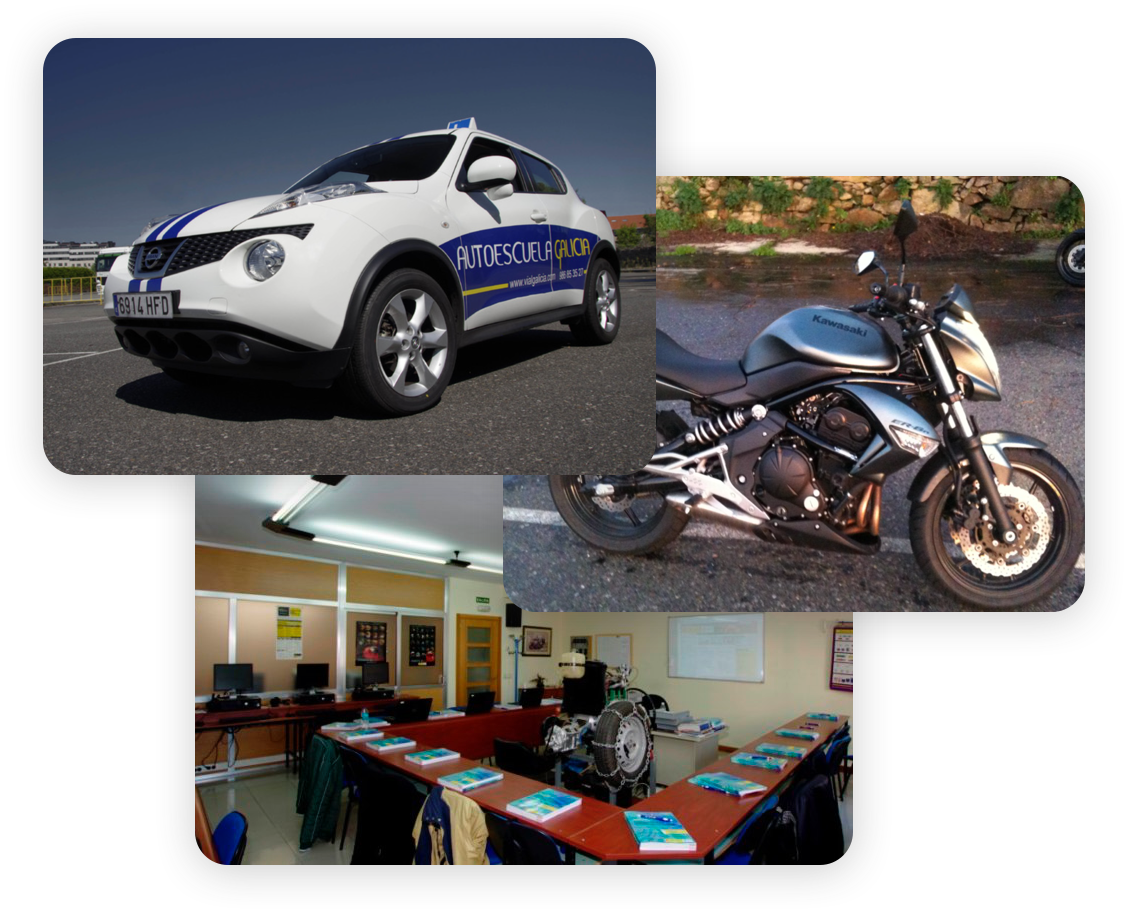
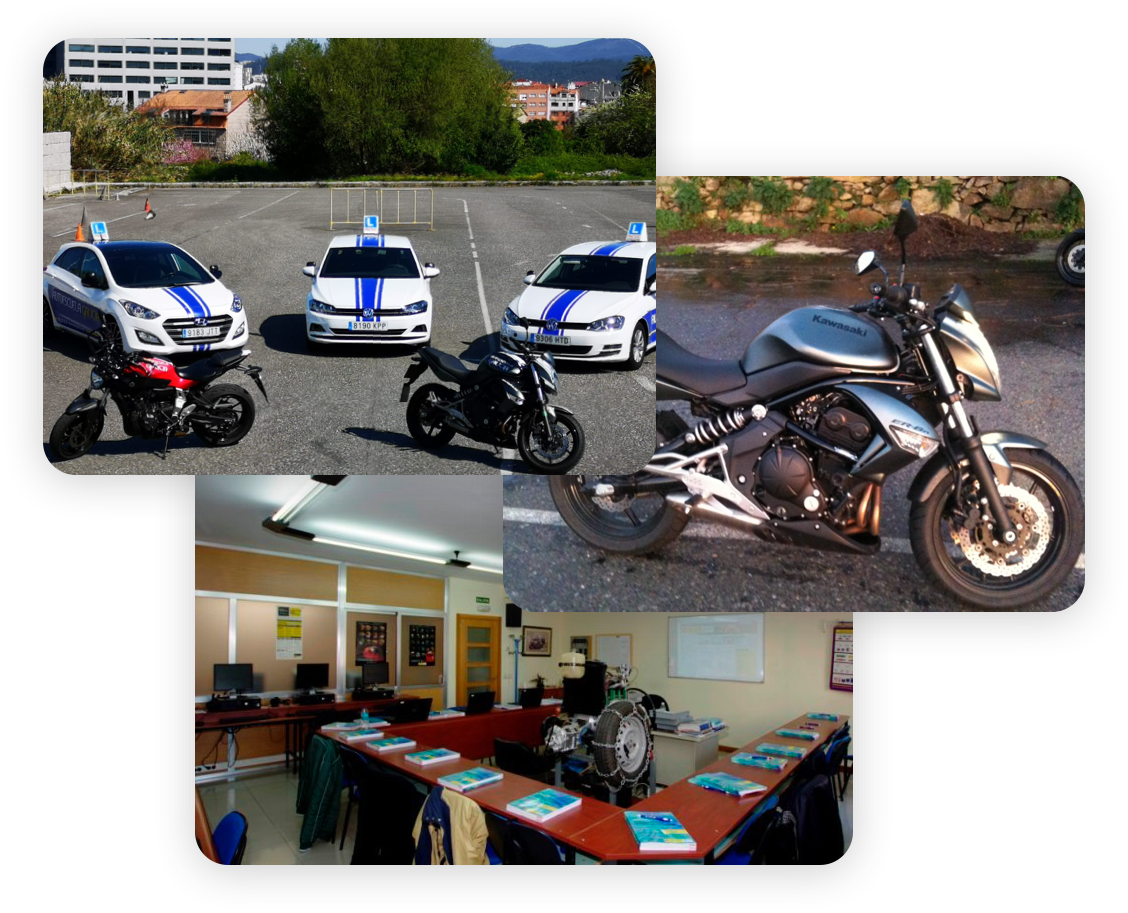
Upload updated "cars and motorcycles" picture

Changed region(s): [[0.031, 0.0307, 0.5895, 0.5214]]

diff --git a/index.html b/index.html
@@ -62,7 +62,7 @@
 
 				<a href="/servicios">
 					<div class="pages-grid-cell">
-						<img class="pages-grid-cell-image" src="assets/images/pictures/index-page/01.png">
+						<img class="pages-grid-cell-image" src="assets/images/pictures/index-page/07.jpg">
 						<div class="pages-grid-cell-info">
 							<p class="pages-grid-cell-info-title">Servicios</p>
 							<p class="pages-grid-cell-info-subtitle">Echa un vistazo a los cursos que ofrecemos.</p>

diff --git a/nosotros/index.html b/nosotros/index.html
@@ -49,6 +49,8 @@
 			<h2>Nosotros</h2>
 			<div class="two-column-grid">
 				<div class="text">
+					<img class="image-in-column" src="../assets/images/pictures/nosotros-page/02.jpg">
+					<p class="footnote">Nuestra flota de coches y motocicletas.</p>
 					<img class="image-in-column" src="../assets/images/pictures/instalaciones-page/03.jpg">
 					<p class="footnote">Una de las dos aulas donde se imparten clases.</p>
 				</div>
